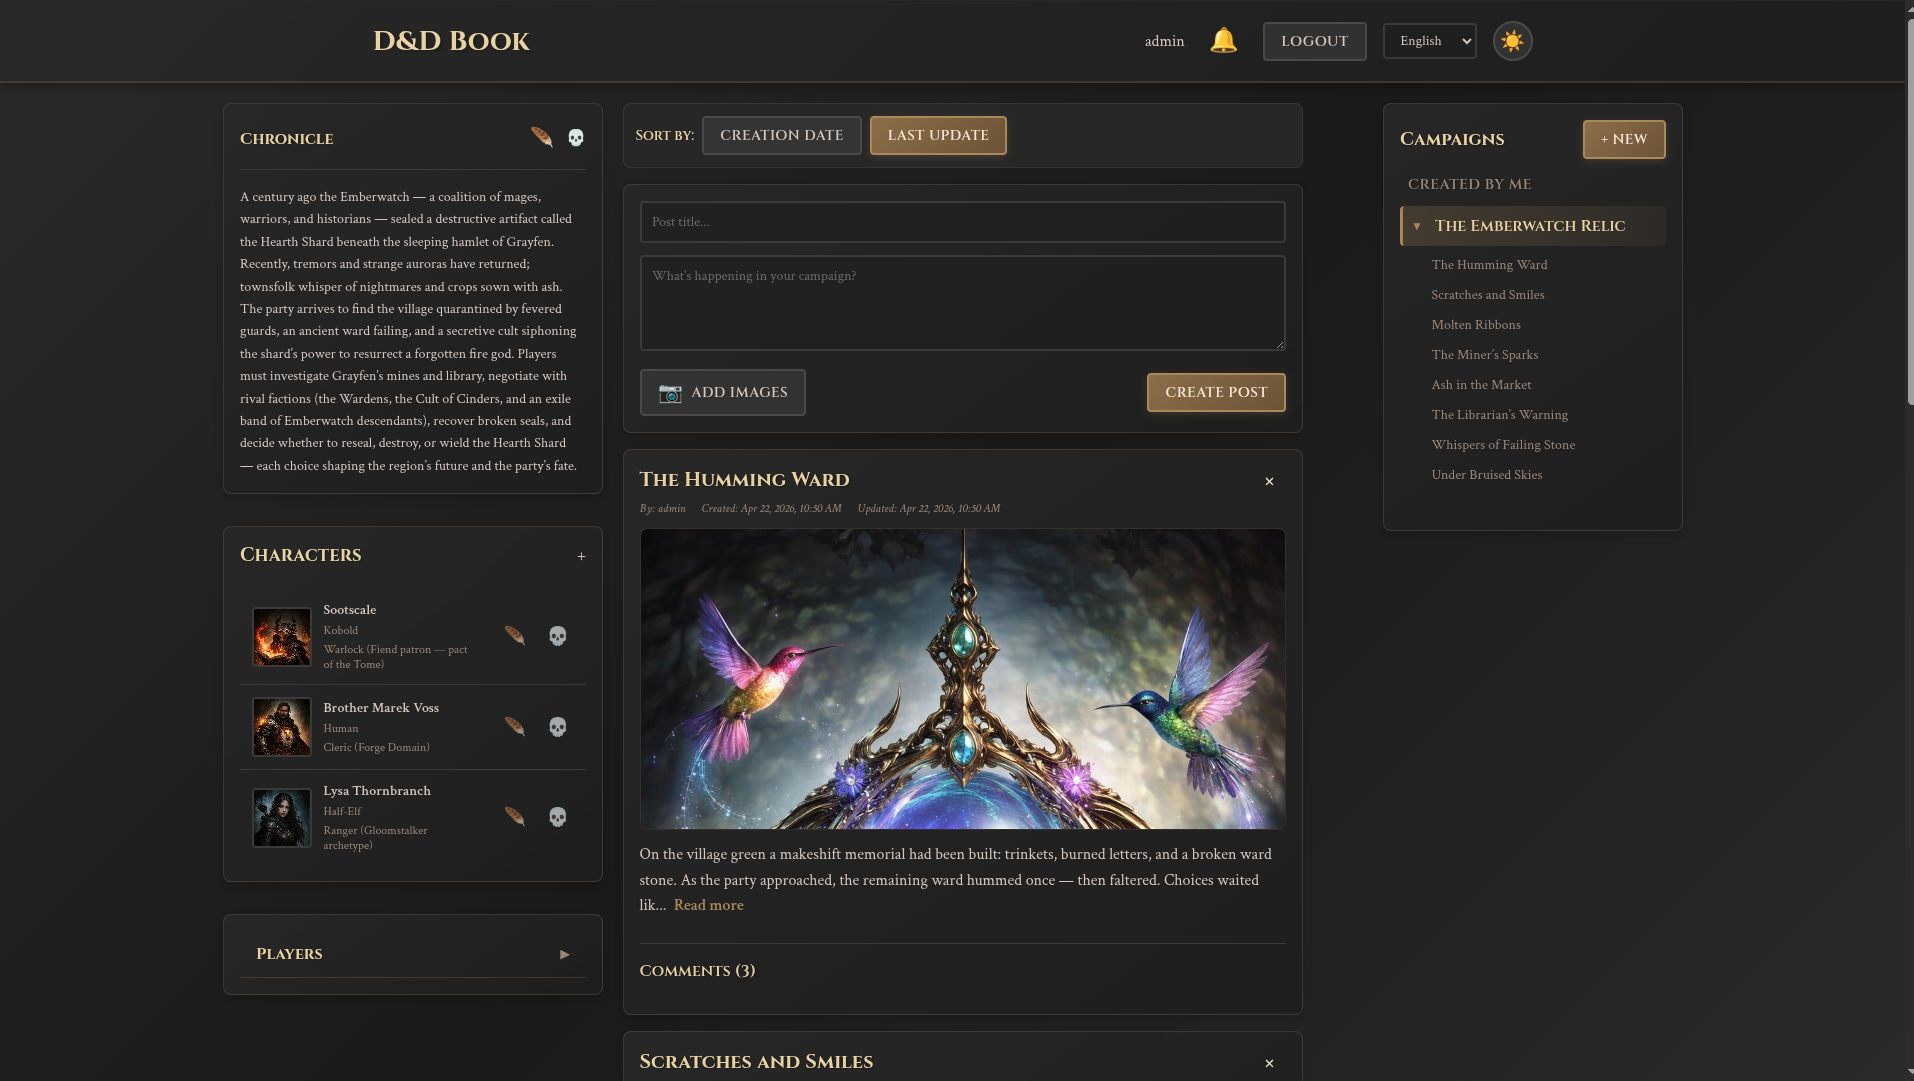
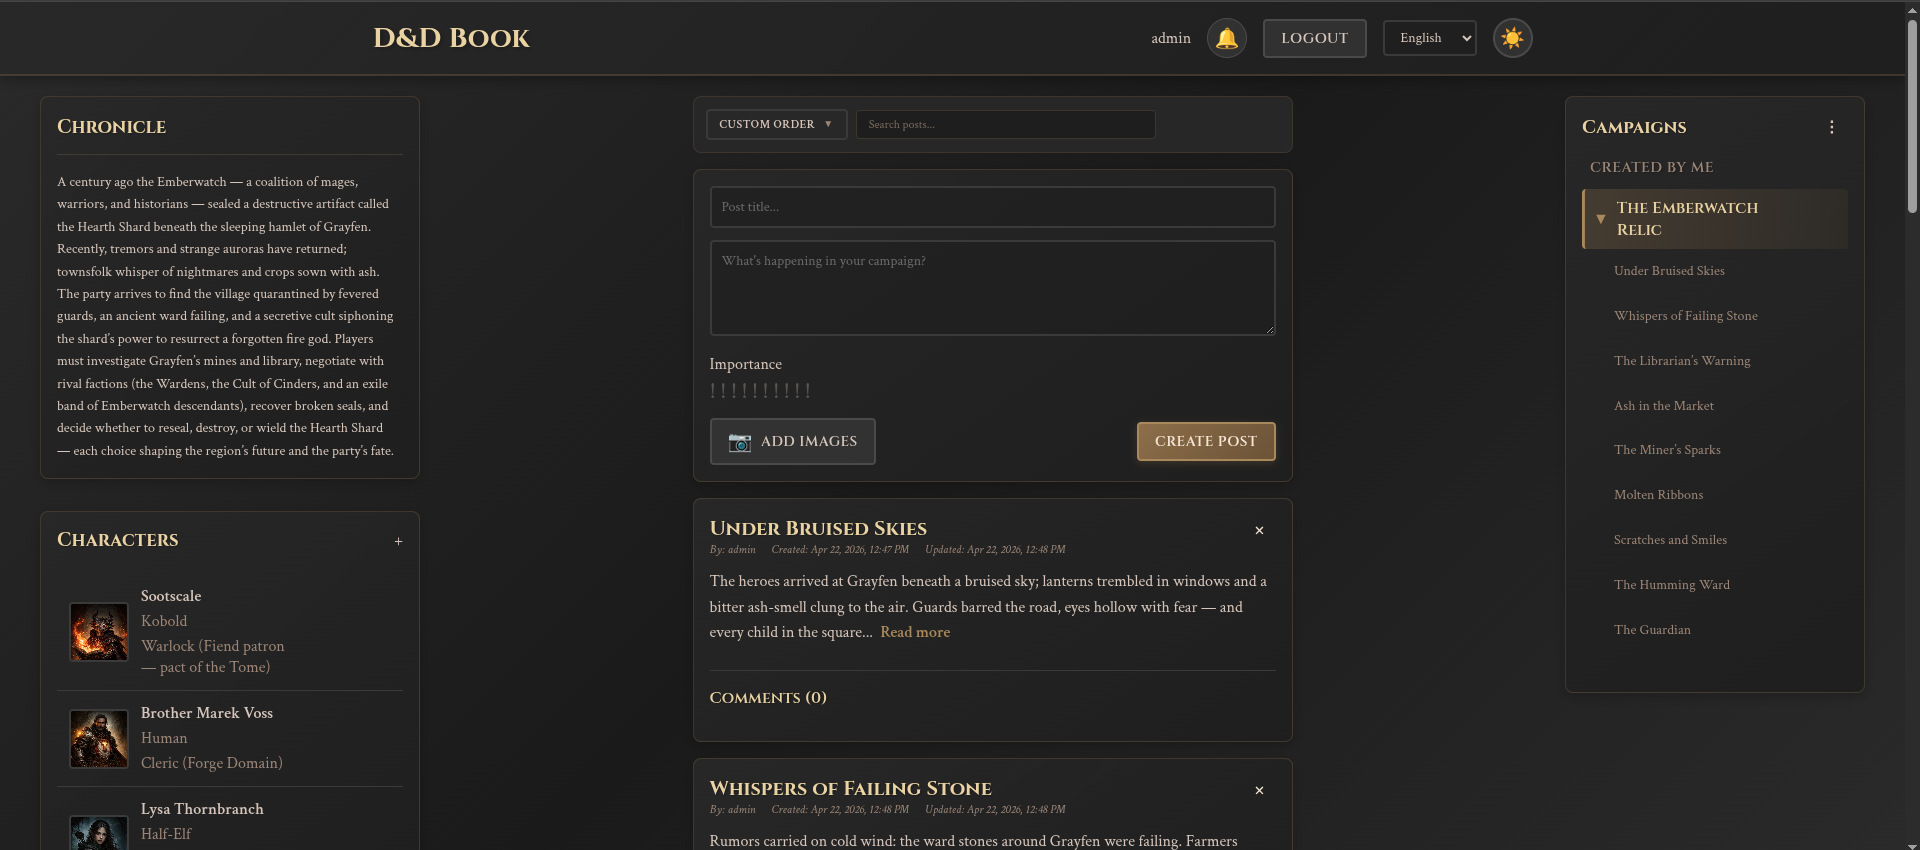
fix(dndbook) [main] layout improvements + new screenshots

diff --git a/fe/src/style.css b/fe/src/style.css
@@ -874,7 +874,8 @@ input::placeholder, textarea::placeholder {
     border-radius: 8px;
     border: 1px solid rgba(139, 111, 71, 0.3);
     padding: 16px;
-    height: fit-content;
+    max-height: calc(100vh - 100px);
+    overflow-y: auto;
     position: sticky;
     top: 80px;
     box-shadow: 0 4px 12px rgba(0, 0, 0, 0.2);
@@ -2468,7 +2469,8 @@ input::placeholder, textarea::placeholder {
     transform: scale(1.1);
 }
 
-.campaign-actions-menu {
+.campaign-actions-menu,
+.post-actions-menu {
     position: fixed;
     background: linear-gradient(145deg, var(--card-bg-1) 0%, var(--card-bg-2) 100%);
     border: 1px solid rgba(139, 111, 71, 0.3);

diff --git a/README.md b/README.md
@@ -37,6 +37,9 @@ See D&D Book in action! Here are some screenshots showcasing some features:
   <br/><br/>
   <a href="demo-screenshots/2.png"><img src="demo-screenshots/2.png" alt="D&D Book Screenshot 2" width="400"/></a>
   <a href="demo-screenshots/3.png"><img src="demo-screenshots/3.png" alt="D&D Book Screenshot 3" width="400"/></a>
+  <br/><br/>
+  <a href="demo-screenshots/4.png"><img src="demo-screenshots/4.png" alt="D&D Book Screenshot 4" width="400"/></a>
+  <a href="demo-screenshots/5.png"><img src="demo-screenshots/5.png" alt="D&D Book Screenshot 5" width="400"/></a>
 </div>
 
 ---